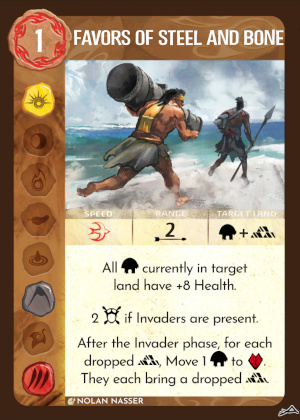
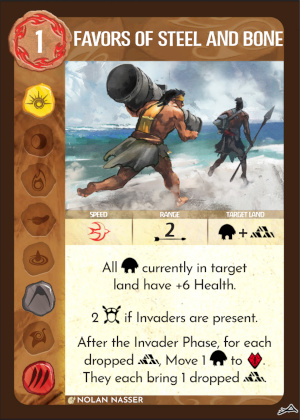
Covets Gleaming Shards of Earth v1.4 (from v1.3)
release notes https://docs.google.com/document/d/1CzGBV91S5-KyA2SXdhSDGi-828hod6VFX8HhCQ9kW8U/edit
drive https://drive.google.com/drive/folders/1K-G1JjMQP77AXm_r2AndX5O7uOgF7gTX

These unique powers cards have mechanical changes, so need a new version:

* Favors of Steel and Bone (+6 health instead of +8 health)
* Melt Earth to Slag (you only earn the fear if a city is destroyed)

Petition for Smoldering Wrath has no mechanical changes at all, only
cosmetic changes, so is updated in-place.

Unnerving Attention has a mechanical change not noted in the patch
notes! It now checks whether an Invader has metal, as opposed to whether
any metal is present. Since it isn't mentioned, presumably this is meant
as a fix for how it always should have been. I've decided to update it
in-place.

diff --git a/pbf/templates/player.html b/pbf/templates/player.html
@@ -88,6 +88,8 @@
       {# We must not allow arbitrary aspect name to be interpolated into the path! Only allow known-good aspects. #}
       {% if player.aspect == 'v1.2.1' %}
       <img src="{% static 'pbf/covets_v1.2.1.jpg' %}" width="957" height="1260" />
+      {% elif player.aspect == 'v1.3' %}
+      <img src="{% static 'pbf/covets_v1.3.jpg' %}" width="957" height="1260" />
       {% else %}
       <img src="{% static player.spirit.url %}" width="957" height="1260" />
       {% endif %}
@@ -185,8 +187,10 @@
   {% if player.spirit.name == 'Covets' %}
   {% if player.aspect == 'v1.2.1' %}
   <button class="btn" hx-get="{% url 'gain_power' player.id 'major' '6' %}">6 Cards</button>
-  {% elif player.aspect >= 'v1.3' %}
+  {% elif player.aspect == 'v1.3' %}
   <button class="btn" hx-get="{% url 'take_powers' player.id 'major' '3' %}"{% if not player.plant_treasure_this_turn %} disabled{% endif %}>Take 3</button>
+  {% elif player.aspect >= 'v1.4' and not player.plant_treasure.exists %}
+  <button class="btn" hx-get="{% url 'create_plant_treasure' player.id %}"{% if not player.plant_treasure_this_turn %} disabled{% endif %}>Set aside 3 (Plant Treasure)</button>
   {% endif %}
   {% endif %}
   <button class="btn" hx-get="{% url 'gain_power' player.id 'major' '2' %}">2 Cards</button>
@@ -389,6 +393,27 @@
     </div>
 
   </ul>
+  {% elif player.spirit.name == 'Covets' %}
+  {% for card in player.plant_treasure.all %}
+  {% if forloop.first %}
+  <p>
+  <h4>Plant Treasure:</h4>
+  <ul>
+    <div class="container-fluid">
+      <div class="row">
+  {% endif %}
+	<div class="col-auto">
+	  <div class="w-150">
+	    <img src="{% static card.url %}" class="img-fluid rounded-top" alt="{{card.name}}">
+	  </div>
+	</div>
+  {% if forloop.last %}
+  </ul>
+  <button class="btn" hx-get="{% url 'take_plant_treasure' player.id %}">Take</button>
+  Reminder: Incarna must hold 4+ Metal (<em>not</em> Stored in the Hoard)
+  </p>
+  {% endif %}
+  {% endfor %}
   {% endif %}
 
   <div id="spirit-discard-deck-{{player.id}}"

diff --git a/pbf/tests.py b/pbf/tests.py
@@ -1158,6 +1158,105 @@ class TestImpending(TestCase):
         client.post(f"/game/{player.id}/gain_energy_on_impending")
         self.assert_impending_energy(player, [2])
 
+class TestCovetsGleamingShardsPlantTreasure(TestCase):
+    def setup_players(self, n=1):
+        client = Client()
+        client.post("/new")
+        game = Game.objects.last()
+        for i in range(n):
+            client.post(f"/game/{game.id}/add-player", {"spirit": "Covets", "color": "random"})
+            self.assertEqual(game.gameplayer_set.count(), i + 1, "didn't find correct number of players; spirit not created successfully?")
+        return (client, game, *game.gameplayer_set.all())
+
+    def test_create(self):
+        client, game, player = self.setup_players()
+        minors_before = game.minor_deck.count()
+        majors_before = game.major_deck.count()
+        hand_before = player.hand.count()
+        player.spirit_specific_per_turn_flags |= GamePlayer.PLANT_TREASURE_THIS_TURN
+        player.save()
+
+        client.post(f"/game/{player.id}/create_plant_treasure")
+
+        self.assertEqual(player.plant_treasure.count(), 3)
+        self.assertEqual(game.minor_deck.count(), minors_before)
+        self.assertEqual(game.major_deck.count(), majors_before - 3)
+        self.assertEqual(player.hand.count(), hand_before)
+
+        for card in player.plant_treasure.all():
+            self.assertEqual(card.type, Card.MAJOR)
+
+    def test_create_reshuffle(self):
+        client, game, player = self.setup_players()
+        majors_before = game.major_deck.count()
+        game.discard_pile.add(*game.major_deck.all())
+        game.major_deck.clear()
+        player.spirit_specific_per_turn_flags |= GamePlayer.PLANT_TREASURE_THIS_TURN
+        player.save()
+
+        client.post(f"/game/{player.id}/create_plant_treasure")
+
+        self.assertEqual(player.plant_treasure.count(), 3)
+        self.assertEqual(game.major_deck.count(), majors_before - 3)
+        self.assertEqual(game.discard_pile.count(), 0)
+
+    def test_create_idempotent(self):
+        client, game, player = self.setup_players()
+        player.spirit_specific_per_turn_flags |= GamePlayer.PLANT_TREASURE_THIS_TURN
+        player.save()
+        client.post(f"/game/{player.id}/create_plant_treasure")
+        majors_before = game.major_deck.count()
+        plant_treasure_before = list(player.plant_treasure.all())
+        player.spirit_specific_per_turn_flags |= GamePlayer.PLANT_TREASURE_THIS_TURN
+        player.save()
+
+        client.post(f"/game/{player.id}/create_plant_treasure")
+
+        self.assertEqual(list(player.plant_treasure.all()), plant_treasure_before)
+        self.assertEqual(game.major_deck.count(), majors_before)
+
+    def test_create_when_not_enabled(self):
+        client, game, player = self.setup_players()
+        majors_before = game.major_deck.count()
+
+        client.post(f"/game/{player.id}/create_plant_treasure")
+
+        self.assertEqual(player.plant_treasure.count(), 0)
+        self.assertEqual(game.major_deck.count(), majors_before)
+
+    def test_take(self):
+        client, game, player = self.setup_players()
+        minors_before = game.minor_deck.count()
+        player.spirit_specific_per_turn_flags |= GamePlayer.PLANT_TREASURE_THIS_TURN
+        player.save()
+        client.post(f"/game/{player.id}/create_plant_treasure")
+        majors_before = game.major_deck.count()
+        hand_before = player.hand.count()
+        plant_treasure_before = list(player.plant_treasure.all())
+
+        client.post(f"/game/{player.id}/take_plant_treasure")
+
+        self.assertEqual(player.plant_treasure.count(), 0)
+        self.assertEqual(game.minor_deck.count(), minors_before)
+        self.assertEqual(game.major_deck.count(), majors_before)
+        self.assertEqual(player.hand.count(), hand_before + 3)
+
+        for card in plant_treasure_before:
+            self.assertIn(card, player.hand.all())
+
+    def test_take_idempotent(self):
+        client, game, player = self.setup_players()
+        player.spirit_specific_per_turn_flags |= GamePlayer.PLANT_TREASURE_THIS_TURN
+        player.save()
+        client.post(f"/game/{player.id}/create_plant_treasure")
+        client.post(f"/game/{player.id}/take_plant_treasure")
+        hand_before = player.hand.count()
+
+        client.post(f"/game/{player.id}/take_plant_treasure")
+
+        self.assertEqual(player.plant_treasure.count(), 0)
+        self.assertEqual(player.hand.count(), hand_before)
+
 class TestUpload(TestCase):
     def png_chunk(type, data):
         import binascii

diff --git a/pbf/views.py b/pbf/views.py
@@ -155,7 +155,7 @@ def game_setup(request, game_id):
             ('Waters', 'Wounded Waters Bleeding', ()),
         ],
         'Apocrypha': [
-            ('Covets', 'Covets Gleaming Shards of Earth [Apocrypha]', ('NO BASE', 'v1.3')),
+            ('Covets', 'Covets Gleaming Shards of Earth [Apocrypha]', ('NO BASE', 'v1.4')),
             ('Rot', 'Spreading Rot Renews the Earth [Apocrypha]', ('Round Down',)),
         ],
         'Exploratory Testing': [
@@ -353,12 +353,12 @@ spirit_presence = {
                 (441,254,1.0), (512,254,1.0,'','Rot'), (582,254,1.0), (654,254,1.0,'','Moon'), (724,254,1.0), (796,254,1.0),
                 ),
         'Covets': (
-                (441,158,1.0,'1'), (512,158,1.0,'','Fire'), (582,158,1.0,'2','Animal'), (654,158,1.0,'3','Earth'), (725,158,1.0,'4'), (796,158,1.0), (867,158,1.0,'5'),
+                (441,158,1.0,'','Fire'), (512,158,1.0,'1'), (582,158,1.0,'2','Animal'), (654,158,1.0), (725,158,1.0,'3'), (796,158,1.0,'','Earth'), (867,158,1.0,'5'),
                 (441,279,1.0,'','Sun'), (512,279,1.0,''), (582,279,1.0,'','Air'), (654,279,1.0,'','Animal'), (724,279,1.0),
                 # hoard one-time bonuses
                 (176,700,0.0), (176,815,0.0),
                 # hoard forms (passive bonuses)
-                (332,700,0.0), (332,815,0.0), (332,950,0.0),
+                (342,700,0.0), (342,815,0.0), (342,950,0.0),
                 # hoard innates
                 (605,700,0.0), (605,855,0.0), (605,1005,0.0),
                 # hoard any element spaces
@@ -946,6 +946,42 @@ def create_days(request, player_id, num):
 
     return with_log_trigger(render(request, 'player.html', {'player': player}))
 
+# Covets Gleaming Shards of Earth
+def create_plant_treasure(request, player_id):
+    player = get_object_or_404(GamePlayer, pk=player_id)
+
+    if player.plant_treasure.exists():
+        # show the ones they already set aside
+        return render(request, 'player.html', {'player': player, 'taken_cards': player.plant_treasure.all(), 'taken_cards_verb': 'set aside'})
+
+    if not player.plant_treasure_this_turn():
+        return render(request, 'player.html', {'player': player})
+
+    game = player.game
+    majors = cards_from_deck(game, 3, 'major')
+    add_log_msg(game, player=player, text=f'stores the Plant Treasure and sets aside 3 major powers', cards=majors)
+    player.plant_treasure.add(*majors)
+    player.spirit_specific_per_turn_flags &= ~GamePlayer.PLANT_TREASURE_THIS_TURN
+    player.save(update_fields=['spirit_specific_per_turn_flags'])
+
+    return with_log_trigger(render(request, 'player.html', {'player': player, 'taken_cards': majors, 'taken_cards_verb': 'set aside'}))
+
+# Covets Gleaming Shards of Earth
+def take_plant_treasure(request, player_id):
+    player = get_object_or_404(GamePlayer, pk=player_id)
+
+    # The site does not maintain a counter of metal held by incarna,
+    # so we cannot check that.
+    # The spirit-specific resource field is used for metal stored in the hoard,
+    # while metal held by incarna is considered part of the island state,
+    # so the host is responsible for maintaining the latter and showing it to the players.
+    if player.plant_treasure.exists():
+        player.hand.add(*player.plant_treasure.all())
+        player.plant_treasure.clear()
+        add_log_msg(player.game, player=player, text=f'takes their Plant Treasure powers')
+
+    return with_log_trigger(render(request, 'player.html', {'player': player}))
+
 def gain_energy_on_impending(request, player_id):
     player = get_object_or_404(GamePlayer, pk=player_id)
     to_gain = player.impending_energy()
@@ -1270,7 +1306,8 @@ def toggle_presence(request, player_id, left, top):
         # But we do have to handle the case where they had more Time than discs (10).
         player.spirit_specific_resource = player.presence_set.filter(opacity=1.0, left__lte=Presence.FRACTURED_DAYS_TIME_X).count()
         player.save(update_fields=['spirit_specific_resource'])
-    if player.spirit.name == 'Covets' and left == 176 and top == 700:
+    if player.spirit.name == 'Covets' and left == 176 and top == (700 if player.aspect == 'v1.3' else 815):
+        # the plant treasure was above the earth treasure in v1.3 but below it in v1.4, hence the different `top` value being checked
         if presence.opacity:
             player.spirit_specific_per_turn_flags |= GamePlayer.PLANT_TREASURE_THIS_TURN
         else:

diff --git a/pbf/models.py b/pbf/models.py
@@ -466,6 +466,7 @@ class GamePlayer(models.Model):
             'Round DownRot': 'Rot',
             'v1.2.1Covets': 'Metal Stored in Hoard',
             'v1.3Covets': 'Metal Stored in Hoard',
+            'v1.4Covets': 'Metal Stored in Hoard',
             'UnconstrainedFangs': 'Prepared Beasts',
             'Memory': 'Prepared Elements',
             'IntensifyMemory': 'Prepared Elements',
@@ -668,6 +669,13 @@ class GamePlayer(models.Model):
 
     def energy_from_rot(self):
         return (self.rot_loss() + (0 if self.aspect == 'Round Down' else 1)) // 2
+
+    @functools.cached_property
+    def plant_treasure(self):
+        # Reusing the existing Days That Never Were association,
+        # as the two are similar (cards that you might have in the future, but not now)
+        # TODO: If it's a problem in the future, we can consider using a dedicated association.
+        return self.days
 
     def days_ordered(self):
         return self.days.order_by('type', 'cost')
@@ -1380,6 +1388,28 @@ spirit_thresholds = {
             (667, 1052, '2S'),
             (667, 1081, '3S2E2N'),
             (667, 1110, '4S3E3N'),
+            ],
+        'v1.4Covets': [
+            # Scent of Shining Earth
+            (360, 487, '1E'),
+            (360, 522, '2F2E'),
+            (360, 555, '2A3E'),
+            (360, 590, '4E'),
+            # Threats, Demands, and Intimidation
+            (650, 487, '2S2E'),
+            (650, 522, '2E2N'),
+            # Violent Outburst
+            (667, 750, '2F'),
+            (667, 779, '3F2E2N'),
+            (667, 807, '4F2E2N'),
+            # Harrowing Gaze
+            (667, 902, '2A'),
+            (667, 931, '3A2E2N'),
+            (667, 960, '4A2E2N'),
+            # Imposing Demands
+            (667, 1052, '2S'),
+            (667, 1081, '3S2E2N'),
+            (667, 1110, '4S2E2N'),
             ],
         }
 

diff --git a/pbf/migrations/0061_covets_gleaming_shards_of_earth_v14.py b/pbf/migrations/0061_covets_gleaming_shards_of_earth_v14.py
@@ -1,0 +1,43 @@
+from django.db import migrations, models
+
+def covets_uniques_v13_rename(apps, schema_editor):
+    Card = apps.get_model('pbf', 'Card')
+
+    for name in ('Melt Earth to Slag', 'Favors of Steel and Bone'):
+        Card.objects.filter(name=name).update(name=f"{name} v1.3", spirit=None)
+
+def covets_uniques_v13_unrename(apps, schema_editor):
+    Card = apps.get_model('pbf', 'Card')
+    Spirit = apps.get_model('pbf', 'Spirit')
+    covets = Spirit.objects.get(name='Covets')
+
+    for name in ('Melt Earth to Slag', 'Favors of Steel and Bone'):
+        Card.objects.filter(name=f"{name} v1.3").update(name=name, spirit=covets)
+
+def covets_add_v14_uniques(apps, schema_editor):
+    Card = apps.get_model('pbf', 'Card')
+    Spirit = apps.get_model('pbf', 'Spirit')
+    covets = Spirit.objects.get(name='Covets')
+
+    unique = 2
+    fast = 1
+    slow = 2
+
+    Card(name="Favors of Steel and Bone", cost=1, type=unique, speed=fast, spirit=covets, elements="Sun,Earth,Animal").save()
+    Card(name="Melt Earth to Slag",       cost=1, type=unique, speed=slow, spirit=covets, elements="Sun,Moon,Fire,Earth").save()
+
+def covets_rm_v14_uniques(apps, schema_editor):
+    Card = apps.get_model('pbf', 'Card')
+
+    for name in ('Melt Earth to Slag', 'Favors of Steel and Bone'):
+        Card.objects.get(name=name).delete()
+
+class Migration(migrations.Migration):
+    dependencies = [
+        ('pbf', '0060_remove_gameplayer_base_energy_per_turn'),
+    ]
+
+    operations = [
+        migrations.RunPython(covets_uniques_v13_rename, covets_uniques_v13_unrename),
+        migrations.RunPython(covets_add_v14_uniques, covets_rm_v14_uniques),
+    ]

diff --git a/island/urls.py b/island/urls.py
@@ -34,6 +34,8 @@ urlpatterns = [
     path('game/<int:player_id>/send_days/<int:card_id>', views.send_days, name='send_days'),
     path('game/<int:player_id>/choose_days/<int:card_id>', views.choose_days, name='choose_days'),
     path('game/<int:player_id>/create_days/<int:num>', views.create_days, name='create_days'),
+    path('game/<int:player_id>/create_plant_treasure', views.create_plant_treasure, name='create_plant_treasure'),
+    path('game/<int:player_id>/take_plant_treasure', views.take_plant_treasure, name='take_plant_treasure'),
     path('game/<int:player_id>/discard-pile', views.discard_pile, name='discard_pile'),
     path('game/<int:player_id>/choose_from_discard/<int:card_id>', views.choose_from_discard, name='choose_from_discard'),
     path('game/<int:player_id>/return_to_deck/<int:card_id>', views.return_to_deck, name='return_to_deck'),

diff --git a/pbf/admin.py b/pbf/admin.py
@@ -36,7 +36,9 @@ class GamePlayerAdmin(admin.ModelAdmin):
         excludes = []
         if not obj or obj.spirit.name != 'Waters':
             excludes.append('healing')
-        if not obj or obj.spirit.name != 'Fractured':
+        if not obj or (obj.spirit.name != 'Fractured' and obj.spirit.name != 'Covets'):
+            # TODO: Cutting corners, using Days That Never Were for Covets Gleaming Shards,
+            # rather than a dedicated association.
             excludes.append('days')
         return excludes
 
